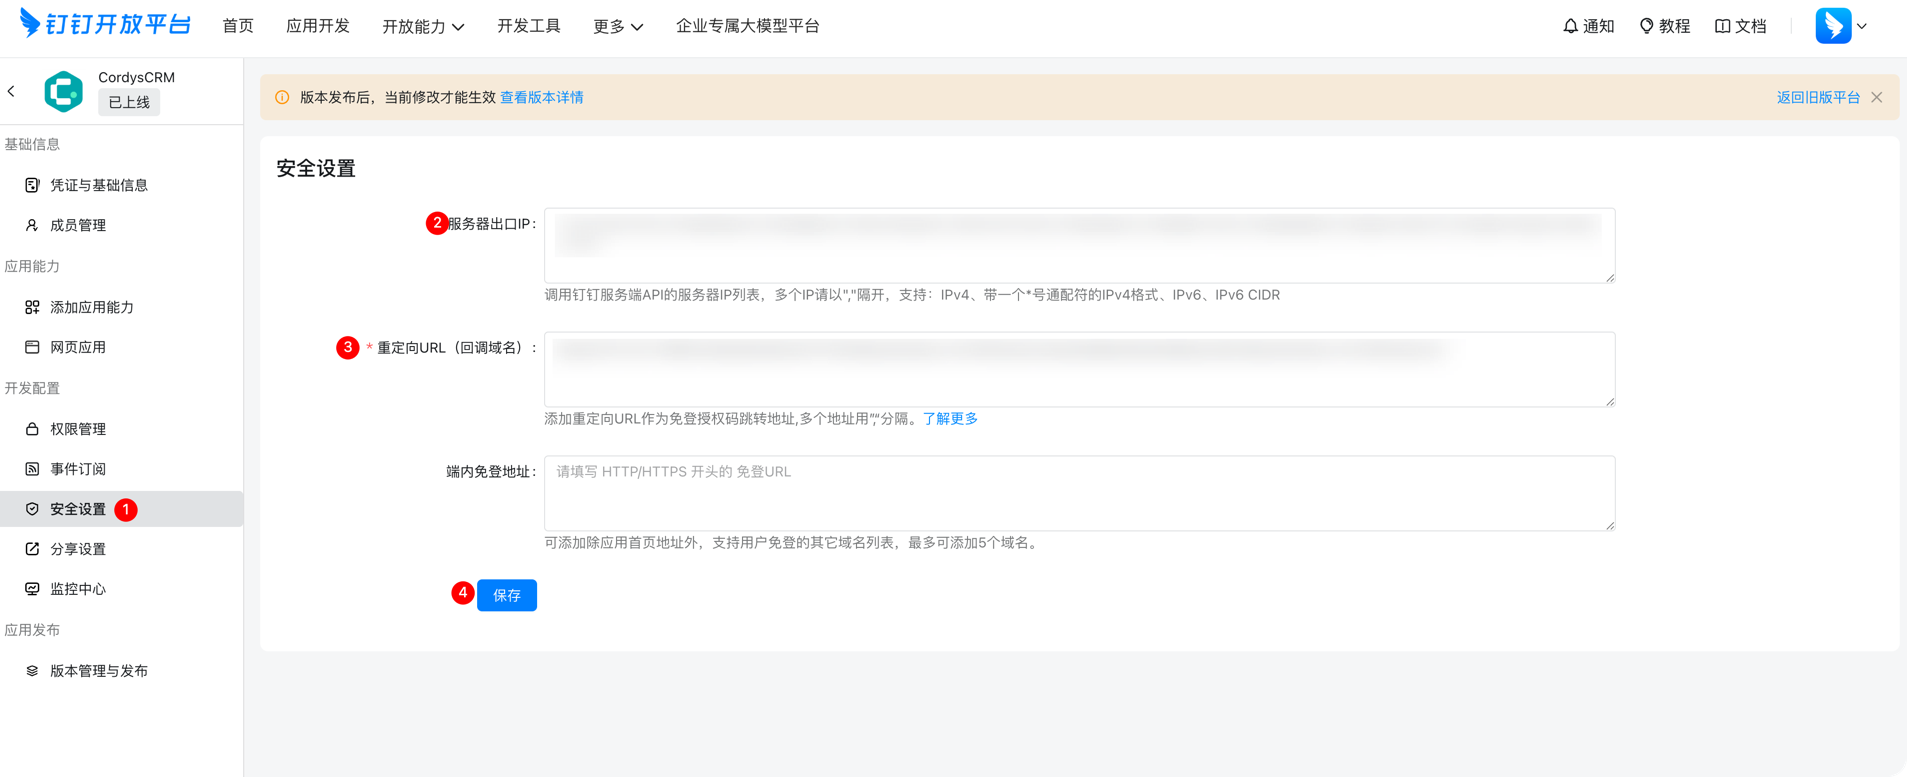
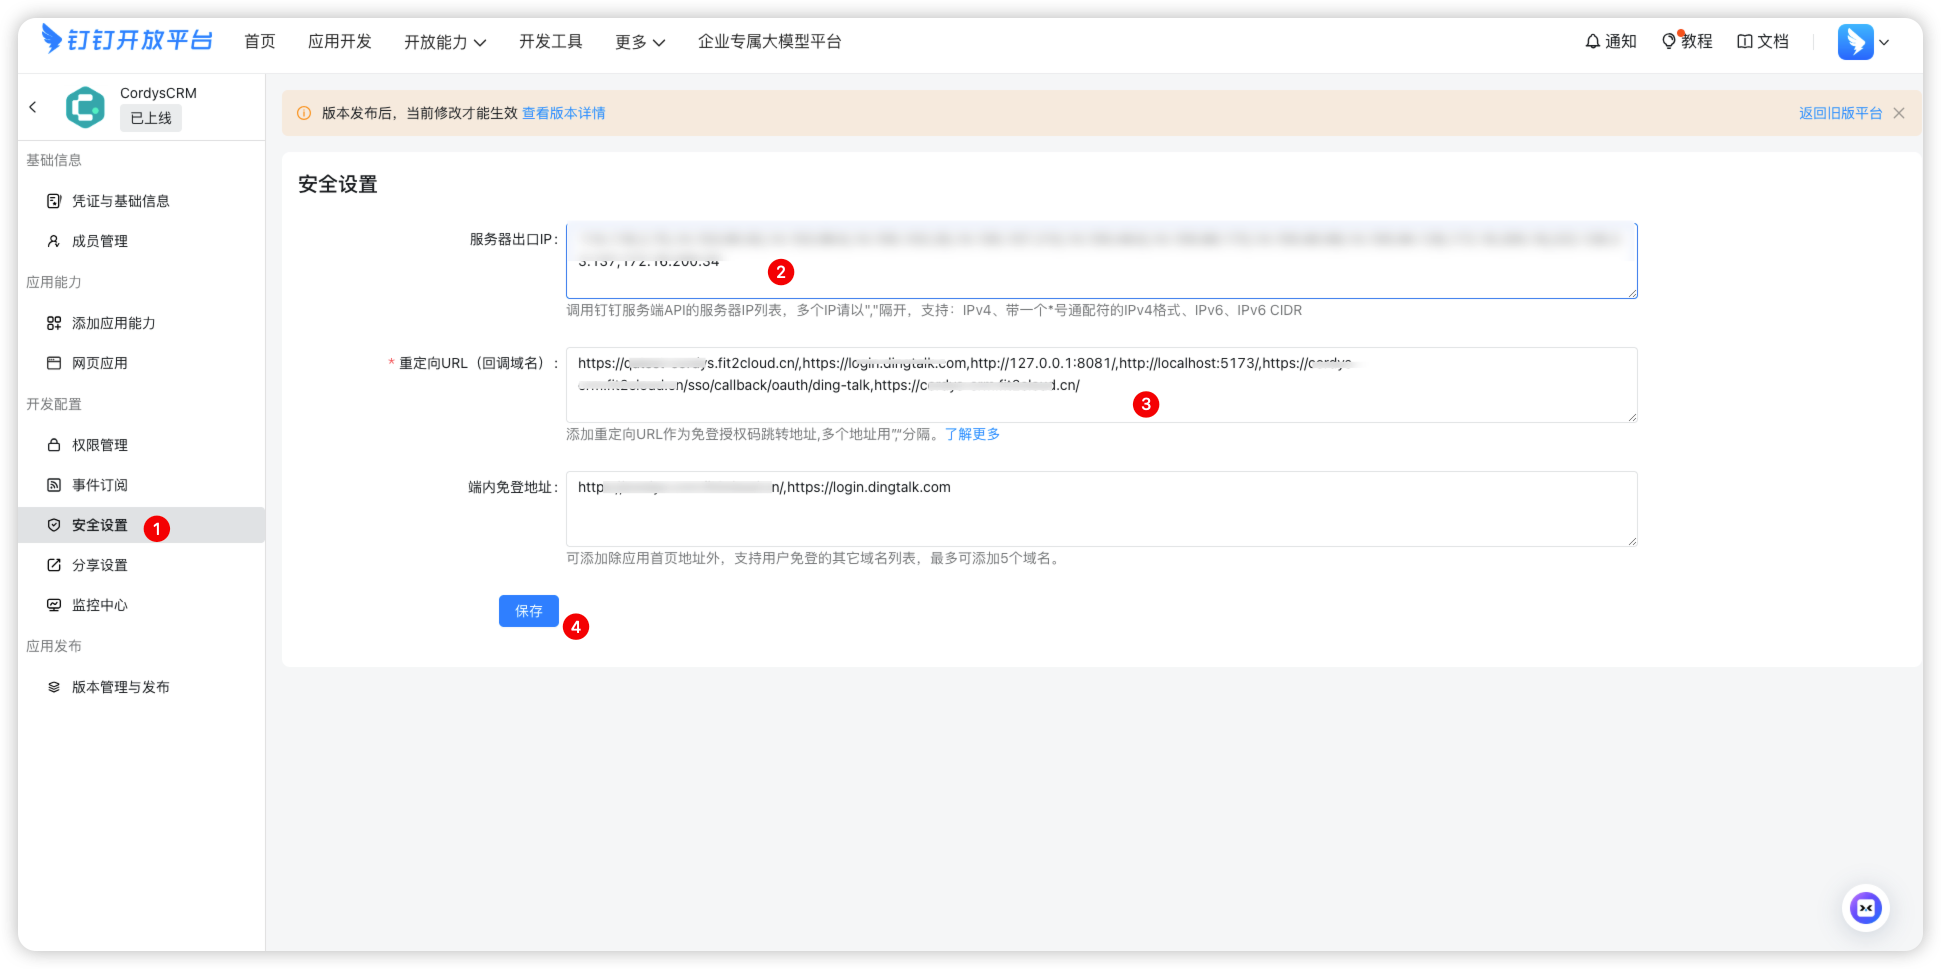
docs: update DingTalk integration guide with additional configuration steps and images

diff --git a/docs/manual/user_manual/dingtalk.md b/docs/manual/user_manual/dingtalk.md
@@ -19,13 +19,15 @@
 
     在钉钉管理后台应用开发页面选择企业内部应用-钉钉应用-创建自建应用，在应用列表页面点击更多，查看应用详情-应用凭证与基础信息，并获取以下关键凭证：
 
-     - 原企业内部应用AgentId (内部应用id，用于发送钉钉的应用通知) 
-     - 应用的 Client ID (应用id)
-     - 应用的 Client Secret  (应用密钥)
+     - 创建应用
 
       ![配置](../img/user_manual/dingtalk_app.png)
-      ![配置](../img/user_manual/dingtalk_app_create.png)
-      ![配置](../img/user_manual/dingtalk_check.png)
+     
+     - 点击应用详情获取配置信息：
+         - 原企业内部应用AgentId (内部应用id，用于发送钉钉的应用通知) 
+         - 应用的 Client ID (应用id)
+         - 应用的 Client Secret  (应用密钥)
+
       ![配置](../img/user_manual/dingtalk_config.png)
 
 
@@ -46,9 +48,7 @@
       - 安全设置-服务器IP出口配置应用的"可信 IP 白名单"，确保调用 API 时不被拒绝, 配置回调 URL
       - 分享设置-配置回调 URL(用户免登录)
 
-
       ![配置](../img/user_manual/dingtalk_app_config.png)
-      ![配置](../img/user_manual/dingtalk_share_config.png)
 
     #### 6. 应用能力
     
@@ -66,6 +66,8 @@
             或  
             `https://login.dingtalk.com/oauth2/auth?redirect_uri=https://你的域名%2Fa%2Fbmobile&response_type=code&client_id=dingxxxxxxx&scope=openid&state=dddd&prompt=consent`
     
+        ![配置](../img/user_manual/dingtalk_net_work_settings.png)
+
       - **配置分享设置**
           - 配置回调地址：  
             `https://你的域名`  
@@ -107,11 +109,15 @@
 
        - 所有钉钉配置均需要应用发布成功后生效
          
-      👉 官方文档：[通讯录同步](https://open.dingtalk.com/document/orgapp/contacts-overview)
+      👉 钉钉官方文档：[通讯录同步](https://open.dingtalk.com/document/orgapp/contacts-overview)
+
+      ![发布应用](../img/user_manual/dingtalk_public.png)
+
 
 ## 钉钉工作台访问 Cordys CRM
 
 !!! Abstract ""
 
     ![工作台访问](../img/user_manual/dingtalk_workbench.png)
+
     ![移动端界面](../img/user_manual/dingtalk_workbench_main.png)
